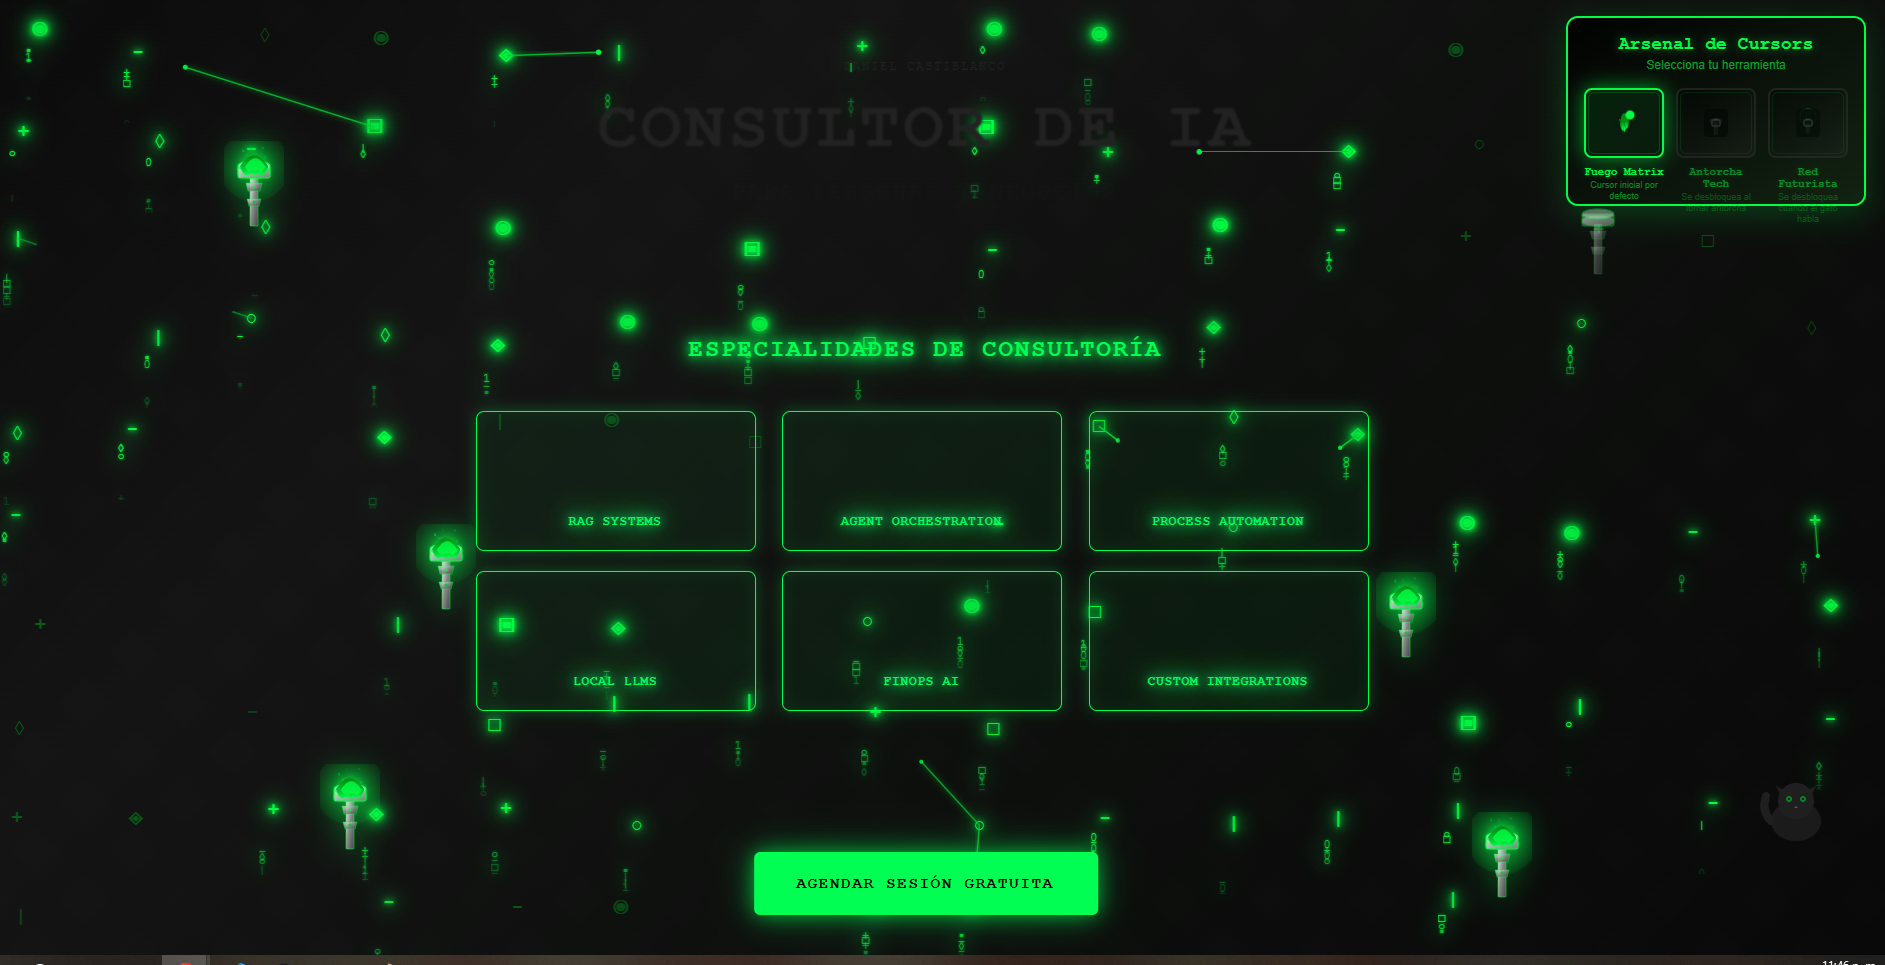
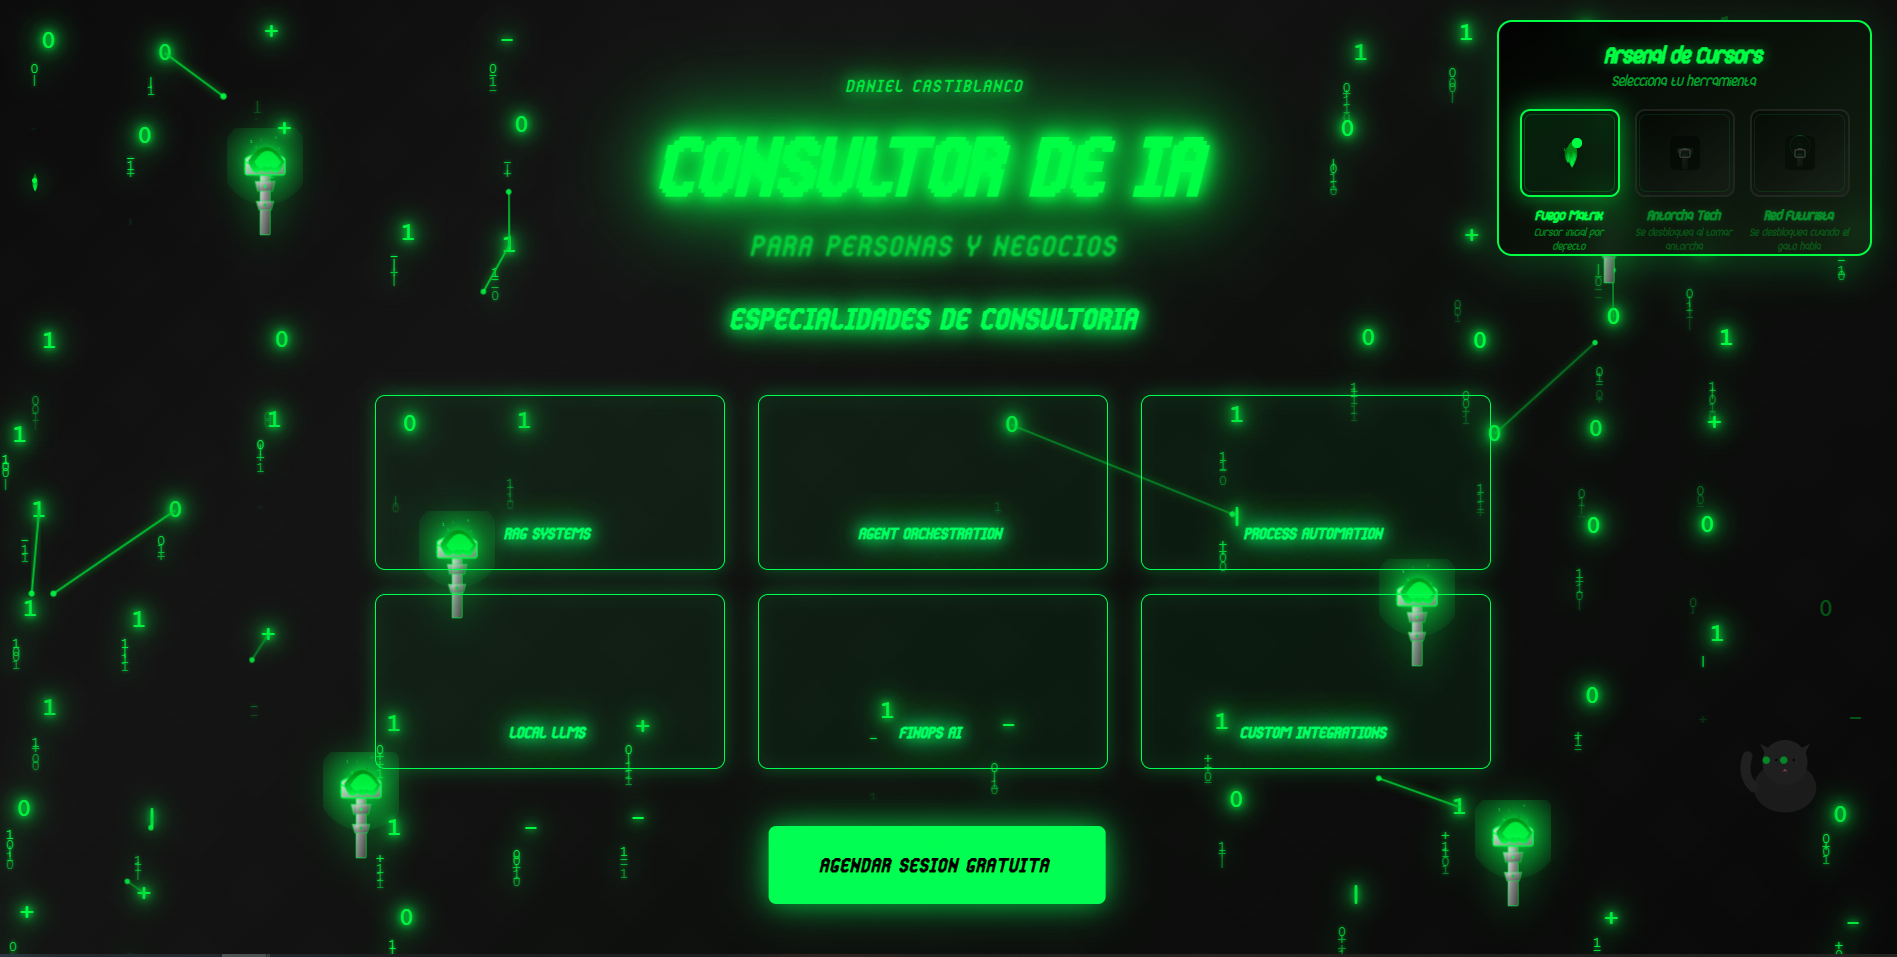
fix: Circuitos mejorados + UI simplificada
- Eliminada fuente Glitchy de circuitos (ahora usan Share Tech Mono)
- Cambiados símbolos de circuitos a binario Matrix (0s y 1s)
- Implementado sistema de exclusion zones para evitar overlap con UI
- Reposicionadas 6 antorchas a esquinas exactas simétricas
- Agregado fondo negro sólido a service cards (z-index alto)
- Deshabilitados temporalmente: Gato y Arsenal de cursors
- Landing más limpia y profesional sin elementos distractores

diff --git a/dungeon-ai-landing/src/app/components/circuits-background/circuits-background.component.ts b/dungeon-ai-landing/src/app/components/circuits-background/circuits-background.component.ts
@@ -28,6 +28,14 @@ interface MatrixChar {
   delay: number;
 }
 
+interface ExclusionZone {
+  x: number;
+  y: number;
+  width: number;
+  height: number;
+  element: string; // Para debug
+}
+
 @Component({
   selector: 'app-circuits-background',
   standalone: true,
@@ -86,8 +94,11 @@ export class CircuitsBackgroundComponent implements OnInit, OnDestroy {
   }
 
   private generateFixedCircuits(): void {
-    // Patrones de circuitos según design-preview.html
-    const patterns = ['-', '|', '+', '◉', '□', '○', '▣', '◈', '◊'];
+    // Patrones de circuitos Matrix binarios
+    const patterns = ['-', '|', '+', '0', '1', '0', '0', '1', '1'];
+    
+    // PASO 1: Detectar UI elements automáticamente
+    const exclusionZones = this.detectUIExclusionZones();
     
     // Generate fixed circuits in a balanced grid pattern
     const rows = 10; // Menos rows para mejor performance CSS
@@ -100,9 +111,17 @@ export class CircuitsBackgroundComponent implements OnInit, OnDestroy {
         // Skip some cells to avoid oversaturation
         if (Math.random() < 0.4) continue; // Más circuitos visibles
         
+        const circuitX = j * cellWidth + (cellWidth / 2) + (Math.random() - 0.5) * 30;
+        const circuitY = i * cellHeight + (cellHeight / 2) + (Math.random() - 0.5) * 30;
+        
+        // PASO 2: Verificar si colisiona con exclusion zone
+        if (this.collidesWithExclusionZones(circuitX, circuitY, exclusionZones)) {
+          continue; // Skip este circuito si está en zona prohibida
+        }
+        
         const circuit: FixedCircuit = {
-          x: j * cellWidth + (cellWidth / 2) + (Math.random() - 0.5) * 30,
-          y: i * cellHeight + (cellHeight / 2) + (Math.random() - 0.5) * 30,
+          x: circuitX,
+          y: circuitY,
           pattern: patterns[Math.floor(Math.random() * patterns.length)],
           baseOpacity: 0.3 + Math.random() * 0.2, // Más visible base
           litOpacity: 0.9 + Math.random() * 0.1,
@@ -205,7 +224,7 @@ export class CircuitsBackgroundComponent implements OnInit, OnDestroy {
     if (!this.matrixCharsCache.has(circuitIndex)) {
       const chars: MatrixChar[] = [];
       const charCount = 3 + Math.floor(Math.random() * 3);
-      const symbols = ['A', 'B', 'C', 'D', 'E', 'F', 'G', 'H', 'I', 'J', 'K', 'L']; // Solo letras limpias para Glitchy Demo Italic
+      const symbols = ['-', '|', '+', '0', '1', '0', '0', '1', '1']; // Solo símbolos básicos + binario Matrix
       
       for (let i = 0; i < charCount; i++) {
         chars.push({
@@ -218,5 +237,60 @@ export class CircuitsBackgroundComponent implements OnInit, OnDestroy {
     }
     
     return this.matrixCharsCache.get(circuitIndex) || [];
+  }
+
+  // 🚫 EXCLUSION ZONES SYSTEM - Detectar UI elements automáticamente
+  private detectUIExclusionZones(): ExclusionZone[] {
+    const exclusionZones: ExclusionZone[] = [];
+    const margin = 40; // Margin más grande para mejor separación
+    
+    try {
+      // Detectar elementos UI automáticamente por clases
+      const uiSelectors = [
+        '.service-card',           // Cards de servicios
+        '.service-item',           // Items individuales de servicios
+        '.services-grid',          // Grid container completo
+        '.consultation-btn',       // Botón de consulta  
+        '.consultation-button',    // Botón alternativo
+        '.hero-section',          // Sección hero
+        '.cursor-inventory',      // Inventario cursors
+        '.cat-container',         // Container del gato
+        '.services-header'        // Header de servicios
+      ];
+      
+      uiSelectors.forEach(selector => {
+        const elements = document.querySelectorAll(selector);
+        elements.forEach(element => {
+          const rect = element.getBoundingClientRect();
+          
+          // Solo crear zona si el elemento es visible
+          if (rect.width > 0 && rect.height > 0) {
+            exclusionZones.push({
+              x: rect.left - margin,
+              y: rect.top - margin,
+              width: rect.width + (margin * 2),
+              height: rect.height + (margin * 2),
+              element: selector
+            });
+          }
+        });
+      });
+      
+      console.log(`🚫 CircuitsBackground: Detected ${exclusionZones.length} exclusion zones`);
+      
+    } catch (error) {
+      console.warn('CircuitsBackground: Error detecting exclusion zones:', error);
+    }
+    
+    return exclusionZones;
+  }
+
+  private collidesWithExclusionZones(x: number, y: number, exclusionZones: ExclusionZone[]): boolean {
+    return exclusionZones.some(zone => {
+      return x >= zone.x && 
+             x <= zone.x + zone.width && 
+             y >= zone.y && 
+             y <= zone.y + zone.height;
+    });
   }
 }

diff --git a/dungeon-ai-landing/src/app/app.component.ts b/dungeon-ai-landing/src/app/app.component.ts
@@ -3,9 +3,9 @@ import { CommonModule } from '@angular/common';
 import { CircuitsBackgroundComponent } from './components/circuits-background/circuits-background.component';
 import { TorchSystemComponent } from './components/torch-system/torch-system.component';
 import { ServiceHieroglyphsComponent } from './components/service-hieroglyphs/service-hieroglyphs.component';
-import { CatGuideComponent } from './components/cat-guide/cat-guide.component';
+// import { CatGuideComponent } from './components/cat-guide/cat-guide.component'; // DESHABILITADO
 import { ConsultationButtonComponent } from './components/consultation-button/consultation-button.component';
-import { CursorInventoryComponent } from './components/cursor-inventory/cursor-inventory.component';
+// import { CursorInventoryComponent } from './components/cursor-inventory/cursor-inventory.component'; // DESHABILITADO
 import { CustomCursorComponent } from './components/custom-cursor/custom-cursor.component';
 import { LightingService } from './services/lighting.service';
 import { Subject } from 'rxjs';
@@ -19,9 +19,9 @@ import { takeUntil } from 'rxjs/operators';
     CircuitsBackgroundComponent,
     TorchSystemComponent,
     ServiceHieroglyphsComponent,
-    CatGuideComponent,
+    // CatGuideComponent, // DESHABILITADO
     ConsultationButtonComponent,
-    CursorInventoryComponent,
+    // CursorInventoryComponent, // DESHABILITADO
     CustomCursorComponent
   ],
   templateUrl: './app.component.html',

diff --git a/dungeon-ai-landing/src/app/components/torch-system/torch-system.component.ts b/dungeon-ai-landing/src/app/components/torch-system/torch-system.component.ts
@@ -45,14 +45,14 @@ export class TorchSystemComponent implements OnInit, OnDestroy {
   }
 
   private initializeTechTorches(): void {
-    // Strategic placement of 6 Tech Matrix torches (eliminadas las 2 del centro)
+    // 6 antorchas en las esquinas exactas - posicionamiento simétrico
     const torchPositions = [
-      { x: 15, y: 20 },   // Top-left area
-      { x: 85, y: 25 },   // Top-right area
-      { x: 25, y: 60 },   // Mid-left for service area
-      { x: 75, y: 65 },   // Mid-right for service area
-      { x: 20, y: 85 },   // Bottom-left
-      { x: 80, y: 90 },   // Bottom-right
+      { x: 5, y: 10 },    // Top-left esquina
+      { x: 95, y: 10 },   // Top-right esquina
+      { x: 5, y: 50 },    // Middle-left
+      { x: 95, y: 50 },   // Middle-right
+      { x: 5, y: 90 },    // Bottom-left esquina
+      { x: 95, y: 90 },   // Bottom-right esquina
     ];
 
     this.torches = torchPositions.map((pos, index) => ({

diff --git a/dungeon-ai-landing/src/app/components/service-hieroglyphs/service-hieroglyphs.component.scss b/dungeon-ai-landing/src/app/components/service-hieroglyphs/service-hieroglyphs.component.scss
@@ -82,14 +82,16 @@
   pointer-events: all;
   transition: all 0.4s ease;
   
-  // Estado inicial: fondo transparente como landinpreview.png
+  // Estado inicial: fondo negro sólido para tapar circuitos
   opacity: 0.4;
-  background: transparent; // Fondo transparente como Daniel pidió
+  background: #000000; // Fondo NEGRO SÓLIDO para que circuitos no se vean
   border-color: #444;
+  z-index: 15; // Más alto que circuitos para estar adelante
+  position: relative; // Para que z-index funcione
   
   &.illuminated {
     opacity: 1;
-    background: rgba(0, 255, 68, 0.05); // Fondo verde sutil transparente como landinpreview.png
+    background: #0a0a0a; // Fondo negro con mínimo verde
     border-color: #00ff44; // Border verde brillante
     box-shadow: 
       0 0 15px rgba(0, 255, 68, 0.3),

diff --git a/dungeon-ai-landing/src/app/app.component.html b/dungeon-ai-landing/src/app/app.component.html
@@ -8,8 +8,8 @@
   <!-- Torch system for illumination -->
   <app-torch-system></app-torch-system>
   
-  <!-- Cursor inventory system -->
-  <app-cursor-inventory></app-cursor-inventory>
+  <!-- Cursor inventory system - DESHABILITADO POR AHORA -->
+  <!-- <app-cursor-inventory></app-cursor-inventory> -->
   
   <!-- Main content area -->
   <div class="main-content">
@@ -44,6 +44,6 @@
     <app-consultation-button></app-consultation-button>
   </div>
   
-  <!-- Cat guide assistant -->
-  <app-cat-guide></app-cat-guide>
+  <!-- Cat guide assistant - DESHABILITADO POR AHORA -->
+  <!-- <app-cat-guide></app-cat-guide> -->
 </div>

diff --git a/dungeon-ai-landing/src/app/components/circuits-background/circuits-background.component.scss b/dungeon-ai-landing/src/app/components/circuits-background/circuits-background.component.scss
@@ -53,7 +53,7 @@
   }
   
   .circuit-symbol {
-    font-family: 'Glitchy Demo Italic', 'Share Tech Mono', monospace;
+    font-family: 'Share Tech Mono', 'Courier New', monospace; // Font normal para circuitos (NO Glitchy)
     font-size: 20px;
     font-weight: bold;
     color: #00aa22;
@@ -74,7 +74,7 @@
     
     .matrix-char {
       position: absolute;
-      font-family: 'Glitchy Demo Italic', 'Share Tech Mono', monospace;
+      font-family: 'Share Tech Mono', 'Courier New', monospace; // Font normal para matrix rain (NO Glitchy)
       font-size: 12px;
       color: #00ff44;
       opacity: 0;
